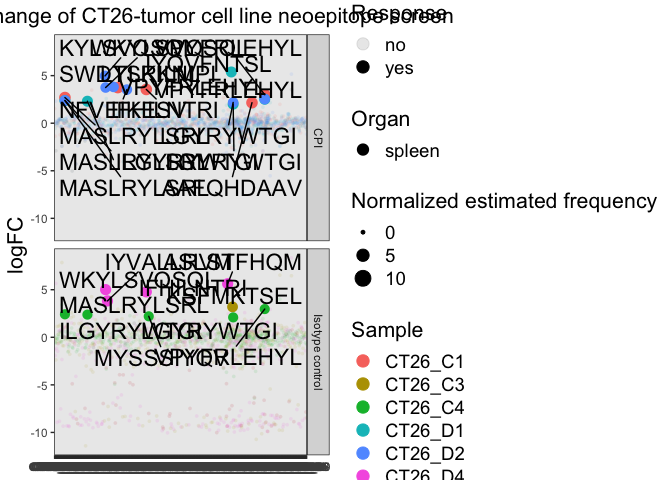
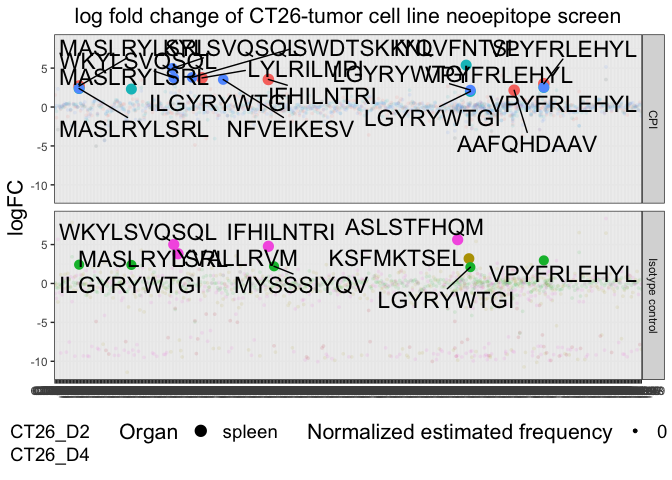
update readme

diff --git a/README.md b/README.md
@@ -32,6 +32,8 @@ library(openxlsx)
 library(shiny)
 library(ggplot2)
 library(barcc)
+library(ggrepel)
+library(ggbeeswarm)
 ```
 
 # Load data
@@ -123,7 +125,60 @@ screening
 my_clean_augment_data <- augment_data(my_clean_data)
 ```
 
-## Explore data in shiny app
+# Plotting functions
+
+Firstly the responses can be explored in the following function, where
+the cell line and data is selcted
+
+``` r
+ barc_resp(data = my_clean_augment_data,
+           Cell_Line = "CT26") +
+  labs(title = "log fold change of CT26-tumor cell line neoepitope screen")
+```
+
+![](README-unnamed-chunk-12-1.png)<!-- -->
+
+To look closer to responses and discover the distribution of Imporved
+Binder (IB) and Conserved Binder (CB), the scatter plot funtion can be
+used.
+
+``` r
+scatterplot_function(data = my_clean_augment_data,
+                           x = 'mut_mhcrank_ba', 
+                           y= 'norm_mhcrank_ba')+
+  labs(title= "Binding affinity (BA) of neoepitope vs WT epitope",
+       x= "Neoepitope BA %Rank ",
+       y="WT epitope BA %Rank")
+```
+
+![](README-unnamed-chunk-13-1.png)<!-- -->
+
+To investegate the muations possition in missense mutations the bar plot
+function is constructed
+
+``` r
+bar_plot_func(data = my_clean_augment_data,
+                    pep_length = 10)
+```
+
+![](README-unnamed-chunk-14-1.png)<!-- -->
+
+To see wheter the is a diffrence in the responses and non responses to
+diffrent varraible the box plot function can be used
+
+``` r
+box_function(data = my_clean_augment_data, 
+                   x = 'response',
+                   y= 'self_similarity') +
+  labs(title = "Self-similarity ", 
+       x = "Response", 
+       y = "Self Similarity",
+       color = "Response")
+```
+
+![](README-unnamed-chunk-15-1.png)<!-- -->
+
+# Explore data in shiny app
 
 Tha data can easy be open in a shiny app to explore the responses and
 the if tehre is and pattern in the immunugenic
